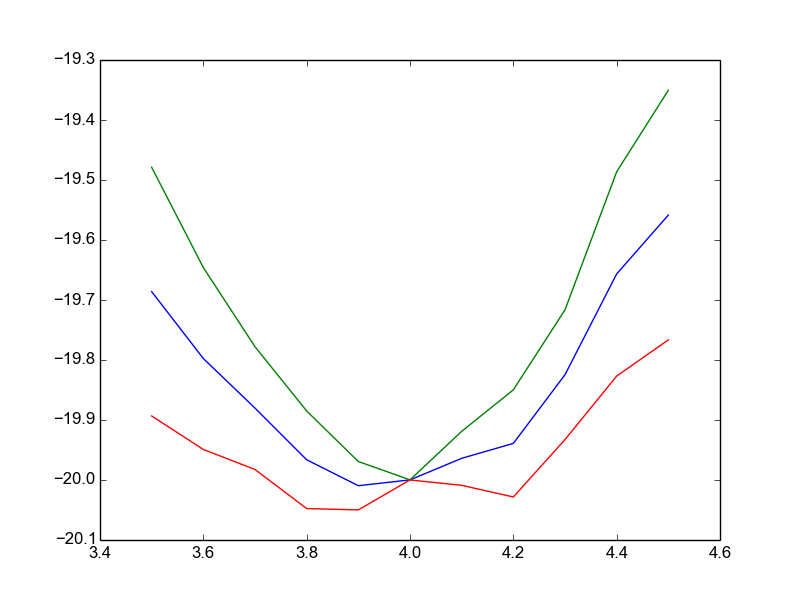
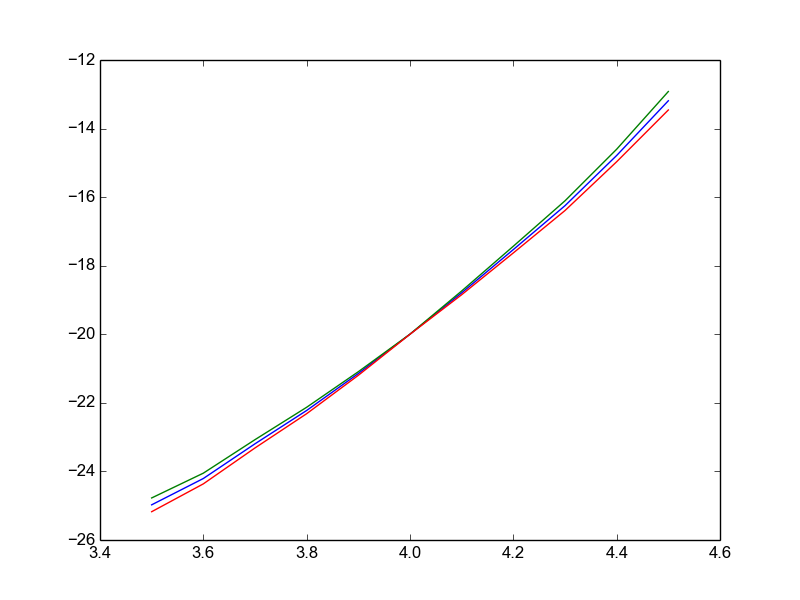
Changed the gradient of the single particle wave functions.

diff --git a/Project2/src/cpp/vmcsolver/SingleParticleWaveFunctions.h b/Project2/src/cpp/vmcsolver/SingleParticleWaveFunctions.h
@@ -55,46 +55,54 @@ namespace wave_functions{
     }
 
     static double phi2pxD(int x, double* r, double rAbs){
-        switch (x) {
-            case 0:
-                return 0.5*phi2p(x,r,rAbs)*(-alpha*r[x]+2*rAbs/r[x])/rAbs;
-            case 1: 
-                return -alpha*r[x];
-            case 2:
-                return -alpha*r[x];
-            default:
-                std::cout << "Out of bound in phi2px!!" << std::endl;
-                return 0;
-        }
+        double tmp = -alpha*g(rAbs)*0.5/rAbs;
+        return tmp*(alpha*r[0]*r[x] - 2*rAbs);
+
+        /* switch (x) { */
+        /*     case 0: */
+        /*         /1* return 0.5*phi2p(x,r,rAbs)*(-alpha*r[x]+2*rAbs/r[x])/rAbs; *1/ */
+        /*     case 1: */ 
+        /*         /1* return -alpha*r[x]; *1/ */
+        /*     case 2: */
+        /*         /1* return -alpha*r[x]; *1/ */
+        /*     default: */
+        /*         std::cout << "Out of bound in phi2px!!" << std::endl; */
+        /*         return 0; */
+        /* } */
     }
 
     static double phi2pyD(int x, double* r, double rAbs){
-        switch (x) {
-            case 0:
-                return -alpha*r[x];
-            case 1: 
-                return 0.5*phi2p(x,r,rAbs)*(-alpha*r[x]+2*rAbs/r[x])/rAbs;
-            case 2:
-                return -alpha*r[x];
-            default:
-                std::cout << "Out of bound in phi2py!!" << std::endl;
-                return 0;
-        }
+        double tmp = -alpha*g(rAbs)*0.5/rAbs;
+        return tmp*(alpha*r[1]*r[x] - 2*rAbs);
+        /* switch (x) { */
+        /*     case 0: */
+        /*         return -alpha*r[x]; */
+        /*     case 1: */ 
+        /*         return 0.5*phi2p(x,r,rAbs)*(-alpha*r[x]+2*rAbs/r[x])/rAbs; */
+        /*     case 2: */
+        /*         return -alpha*r[x]; */
+        /*     default: */
+        /*         std::cout << "Out of bound in phi2py!!" << std::endl; */
+        /*         return 0; */
+        /* } */
     }
 
     static double phi2pzD(int x, double* r, double rAbs){
-        switch (x) {
-            case 0:
-                return -alpha*r[x];
-            case 1: 
-                return -alpha*r[x];
-            case 2:
-                return 0.5*phi2p(x,r,rAbs)*(-alpha*r[x]+2*rAbs/r[x])/rAbs;
-            default:
-                std::cout << "Out of bound in phi2py!!" << std::endl;
-                return 0;
-        }
+        double tmp = -alpha*g(rAbs)*0.5/rAbs;
+        return tmp*(alpha*r[2]*r[x] - 2*rAbs);
+        /* switch (x) { */
+        /*     case 0: */
+        /*         return -alpha*r[x]; */
+        /*     case 1: */ 
+        /*         return -alpha*r[x]; */
+        /*     case 2: */
+        /*         return 0.5*phi2p(x,r,rAbs)*(-alpha*r[x]+2*rAbs/r[x])/rAbs; */
+        /*     default: */
+        /*         std::cout << "Out of bound in phi2py!!" << std::endl; */
+        /*         return 0; */
+        /* } */
     }
+
     static double phi2pDD(int x, double* r, double rAbs){
         return phi2p(x,r,rAbs)*alpha*(alpha*rAbs - 8)/(4*rAbs);
     }
@@ -120,7 +128,7 @@ namespace wave_functions{
     static double phiD(int j, double* r, double rAbs, int x){
         switch (j) {
             case 0 :
-                return phi1sD(r[x],rAbs); // Spherical coordinates. 
+                return phi1sD(r[x],rAbs); 
             case 1 :
                 return phi2sD(r[x],rAbs);
             case 2 :

diff --git a/Project2/src/cpp/unittests/main.cpp b/Project2/src/cpp/unittests/main.cpp
@@ -1,5 +1,6 @@
 #include <unittest++/UnitTest++.h>
 #include "../vmcsolver/VMCWrapper.h"
+#include "TestReporterStdout.h"
 
 using namespace std;
 
@@ -795,23 +796,6 @@ SUITE(VMCWrapper){
         CHECK_CLOSE(-0.122980, phi2s(rAbs), 0.00001);
         delete[] r;
     }
-
-    /* TEST(phiD){ */
-    /*     VMCWrapper solver = VMCWrapper(); */
-    /*     solver.nDimensions = 3; */
-    /*     solver.alpha = 3.75; */
-    /*     wave_functions::alpha = 3.75; */
-    /*     wave_functions::nDimensions = 3; */
-    /*     double* r = new double[3]; */
-    /*     r[0] = 0.5; */
-    /*     r[1] = 0.5; */
-    /*     r[2] = 0.5; */
-    /*     double rAbs = 0.8660254; */
-    /*     // Check that the function phi(j,r_i) works. */
-    /*     using namespace wave_functions; */
-    /*     CHECK_CLOSE(, phi1sD(r[0],rAbs), 0.00001); */
-    /*     delete[] r; */
-    /* } */
 }
 
 SUITE(Helium){
@@ -922,6 +906,11 @@ SUITE(Beryllium){
 
 int main()
 {
+
 	return UnitTest::RunAllTests();
 	return 0;
+
+
+
+
 }

diff --git a/Project2/src/cpp/plot/berylliumAlpha/main.cpp b/Project2/src/cpp/plot/berylliumAlpha/main.cpp
@@ -26,7 +26,8 @@ int main(int argc, const char *argv[])
     solver.stepLength = 1.52;
     solver.nCycles = nCycles;
     solver.h = 0.001;
-    solver.h2 = 1e+06;
+    solver.hInv = 1000;
+    solver.h2Inv = 1e+06;
     solver.idum = 2;
     solver.useWaveFunctionBeryllium2();
     solver.useLocalEnergyGeneric();

diff --git a/Project2/src/cpp/plot/berylliumSlater/main.cpp b/Project2/src/cpp/plot/berylliumSlater/main.cpp
@@ -26,7 +26,8 @@ int main(int argc, const char *argv[])
     solver.stepLength = 1.52;
     solver.nCycles = nCycles;
     solver.h = 0.001;
-    solver.h2 = 1e+06;
+    solver.hInv = 1000;
+    solver.h2Inv = 1e+06;
     solver.idum = 2;
     solver.useEfficientSlater(true);
     solver.useLocalEnergySlater();

diff --git a/Project2/src/cpp/plot/neonSlater/main.cpp b/Project2/src/cpp/plot/neonSlater/main.cpp
@@ -26,7 +26,8 @@ int main(int argc, const char *argv[])
     solver.stepLength = 1.52;
     solver.nCycles = nCycles;
     solver.h = 0.001;
-    solver.h2 = 1e+06;
+    solver.hInv = 1000;
+    solver.h2Inv = 1e+06;
     solver.idum = 2;
     solver.useEfficientSlater(true);
     solver.useParallel(true);
